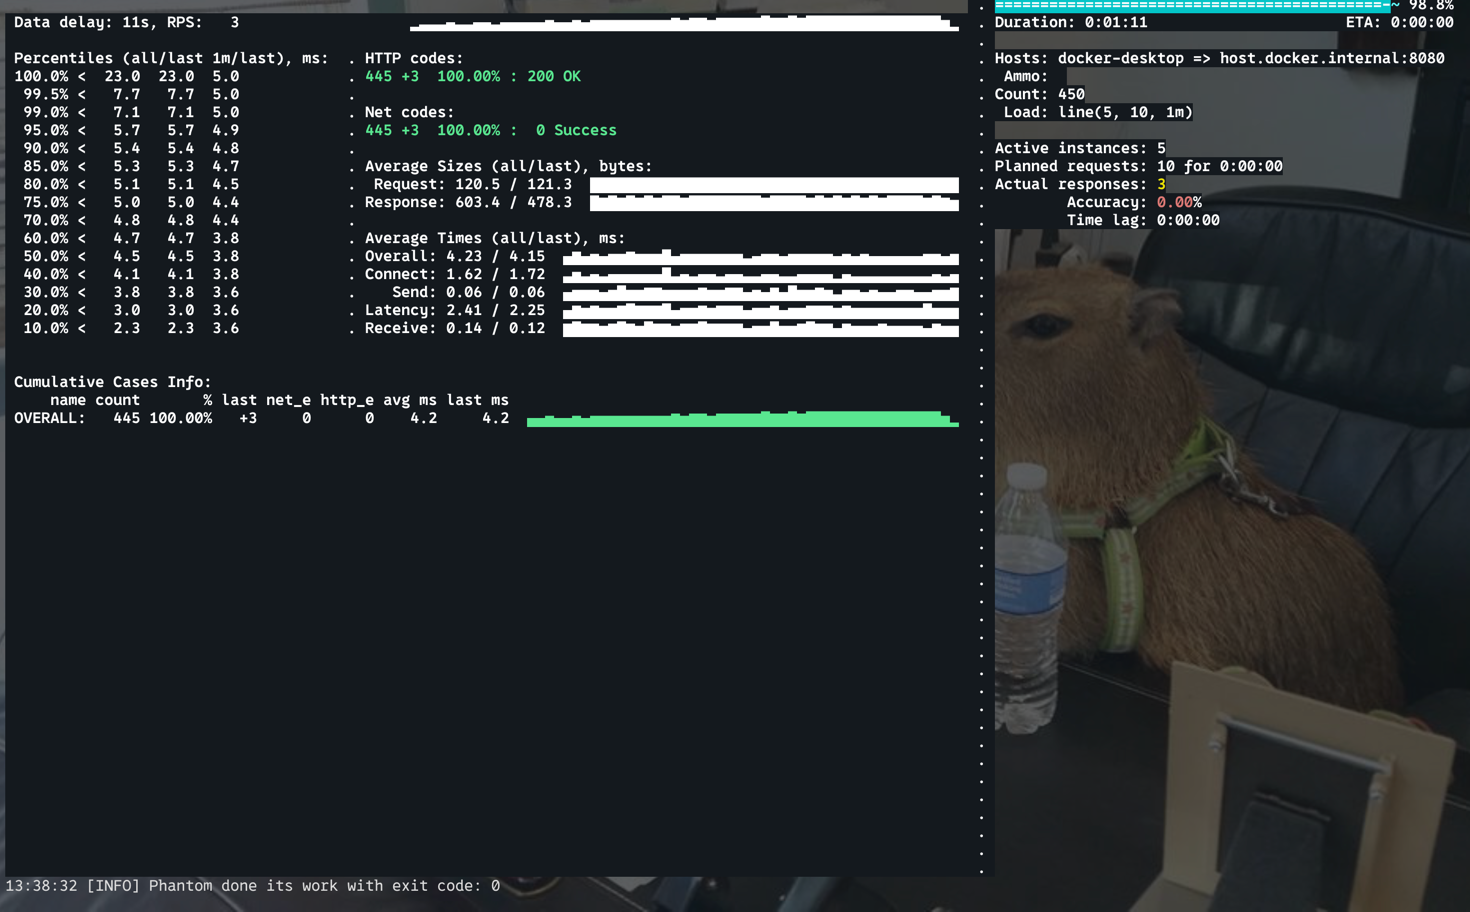
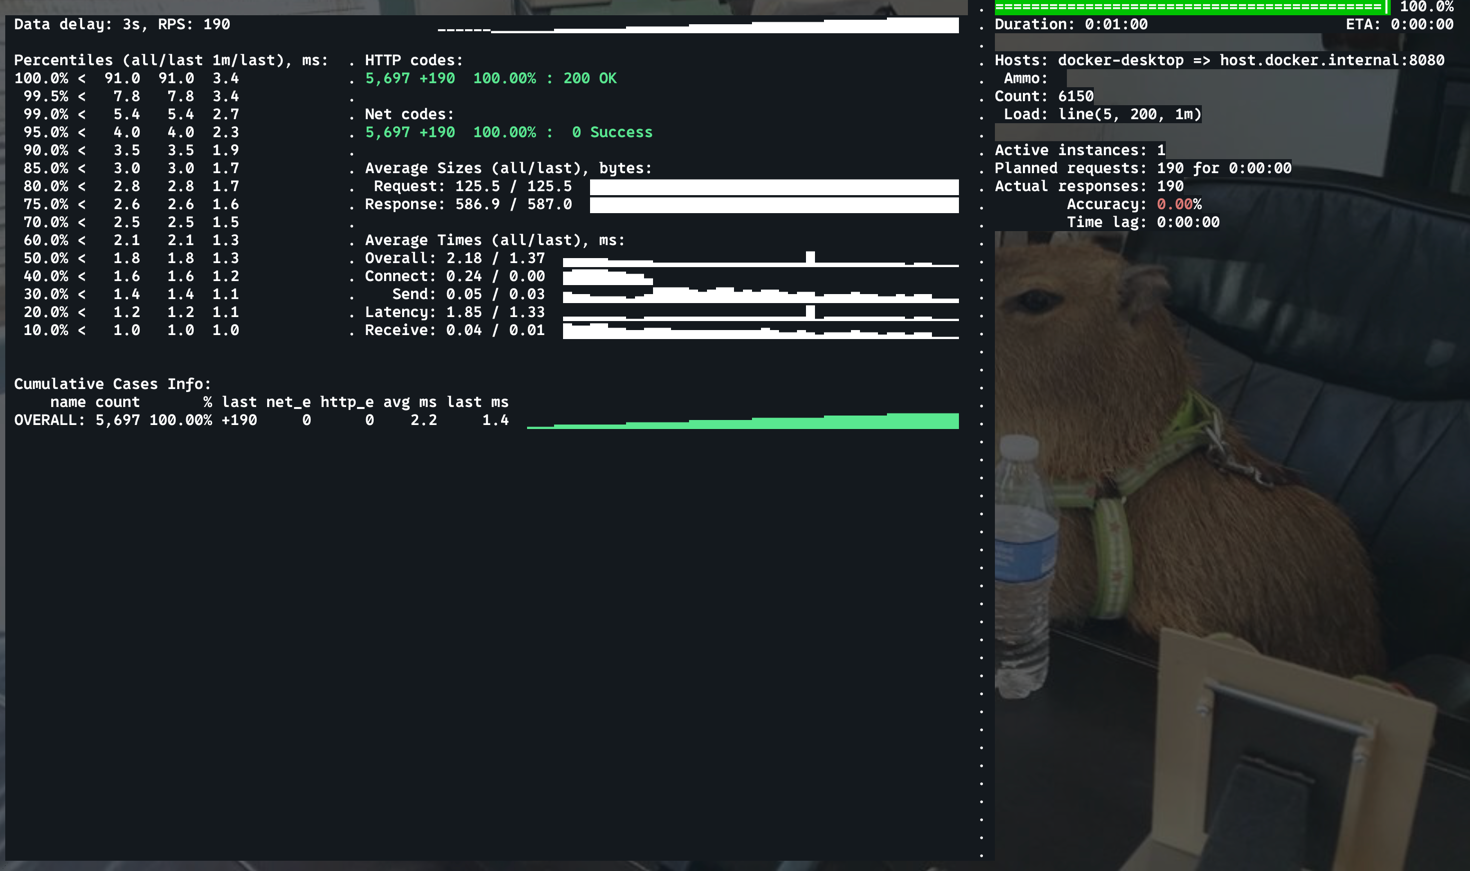
upgrade db

diff --git a/internal/storage/database/database.go b/internal/storage/database/database.go
@@ -18,7 +18,17 @@ func MustNewConnection(ctx context.Context, log *slog.Logger, dbURL string) *Dat
 	localLog := log.With("operationPlace", opearationPlace)
 	ctx, cancel := context.WithTimeout(ctx, time.Second*4)
 	defer cancel()
-	conn, err := pgxpool.New(ctx, dbURL)
+
+	config, err := pgxpool.ParseConfig(dbURL)
+	if err != nil {
+		panic(err)
+	}
+	config.MaxConns = 50
+	config.MinConns = 5
+	config.MaxConnLifetime = time.Hour
+	config.MaxConnIdleTime = time.Minute * 30
+
+	conn, err := pgxpool.NewWithConfig(ctx, config)
 	if err != nil {
 		localLog.Error(fmt.Sprintf("%s: cannot connect to db with URL: %s, with error: %v", opearationPlace, dbURL, err))
 		panic(fmt.Sprintf("%s: cannot connect to db with URL: %s, with error: %v", opearationPlace, dbURL, err))

diff --git a/README.md b/README.md
@@ -122,10 +122,10 @@ Pull Request’ы внутри команды.
 
 ![Результаты нагрузки](https://github.com/sariya23/manage_pr_service/blob/master/doc/overload.png)
 
-При пиковом RPS 10 сервис продолжал отвечать в пределах условий <300мс. 
+При пиковом RPS 200 сервис продолжал отвечать в пределах условий <300мс. 
 Также нет ни одного запроса, который затаймаутил. 
 
-В базе было 500 пользователей и 170 команд. 
+В базе 500 пользователей и 170 команд. 
 
 ## Дополнительные задания
 - [x] Добавить простой эндпоинт статистики (например, количество назначений по пользователям и/или по PR). _Гетовая ручка `/analytics/usersPRs`. Добавил ее
